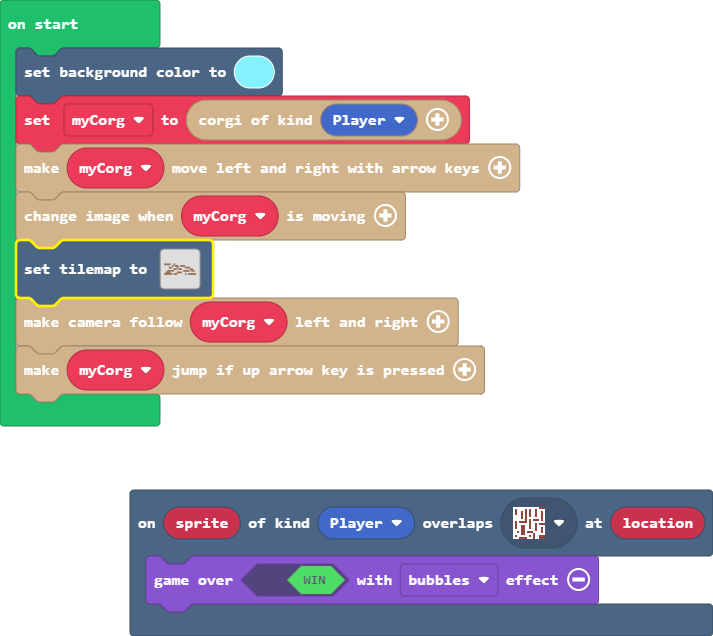
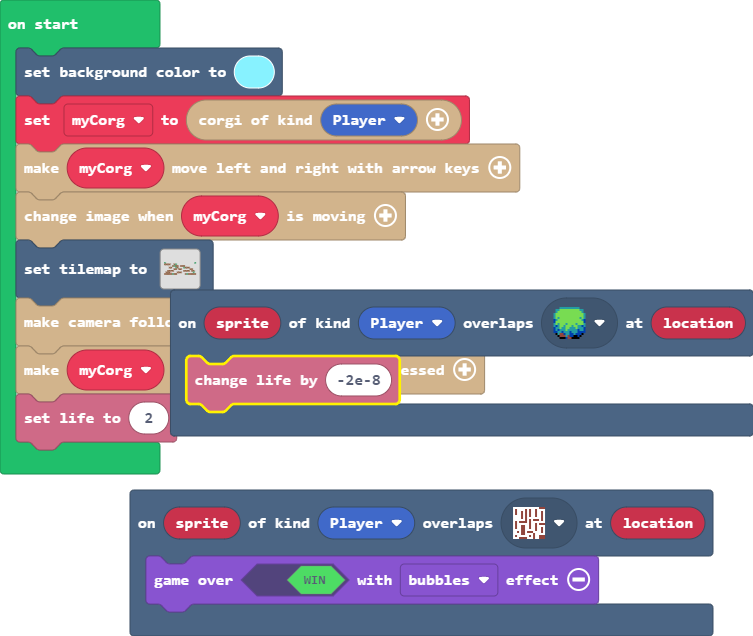
Update main.blocks, main.ts, tilemap.g.jres, tilemap.g.ts

diff --git a/tilemap.g.ts b/tilemap.g.ts
@@ -32,7 +32,7 @@ namespace myTiles {
 2 2 2 2 2 2 2 2 2 2 2 2 . . . . . . . . 
 `, [myTiles.transparency16,sprites.builtin.oceanDepths4,sprites.builtin.oceanDepths0,sprites.builtin.coral0,myTiles.tile1,myTiles.tile2], TileScale.Sixteen);
             case "level_3":
-            case "level1":return tiles.createTilemap(hex`1400080000000000000000000000000000000000000000000202020200000200000000000000000000000000000000000002000202000202020000000000000000000002020000000200000000020202000000000000000000000202000202000000000002020000000002020202000000000000020202020002020000020202010000000202020000000000000000000202020202000202000000000002000202020202`, img`
+            case "level1":return tiles.createTilemap(hex`1400080003000000000000000000000000000000000000030202020200000203000000000000000000000000000000000002030202000202020000000000000000000002020000030200000003020202000000000000000000000202000202000000000002020000000002020202000000000000020202020002020000020202010000000202020000000000000003000202020202030202000000000002030202020202`, img`
 . . . . . . . . . . . . . . . . . . . . 
 2 2 2 2 . . 2 . . . . . . . . . . . . . 
 . . . . . 2 . 2 2 . 2 2 2 . . . . . . . 
@@ -41,7 +41,7 @@ namespace myTiles {
 . . 2 2 2 2 . . . . . . 2 2 2 2 . 2 2 . 
 . 2 2 2 . . . . 2 2 2 . . . . . . . . . 
 2 2 2 2 2 . 2 2 . . . . . 2 . 2 2 2 2 2 
-`, [myTiles.transparency16,myTiles.tile1,myTiles.tile2], TileScale.Sixteen);
+`, [myTiles.transparency16,myTiles.tile1,myTiles.tile2,sprites.builtin.forestTiles0], TileScale.Sixteen);
         }
         return null;
     })

diff --git a/main.ts b/main.ts
@@ -1,6 +1,9 @@
 scene.onOverlapTile(SpriteKind.Player, assets.tile`myTile`, function (sprite, location) {
     game.over(true, effects.bubbles)
 })
+scene.onOverlapTile(SpriteKind.Player, sprites.builtin.forestTiles0, function (sprite, location) {
+    info.changeLifeBy(-2e-8)
+})
 scene.setBackgroundColor(9)
 let myCorg = corgio.create(SpriteKind.Player)
 myCorg.horizontalMovement()
@@ -8,3 +11,4 @@ myCorg.updateSprite()
 tiles.setTilemap(tilemap`level_3`)
 myCorg.follow()
 myCorg.verticalMovement()
+info.setLife(2)
